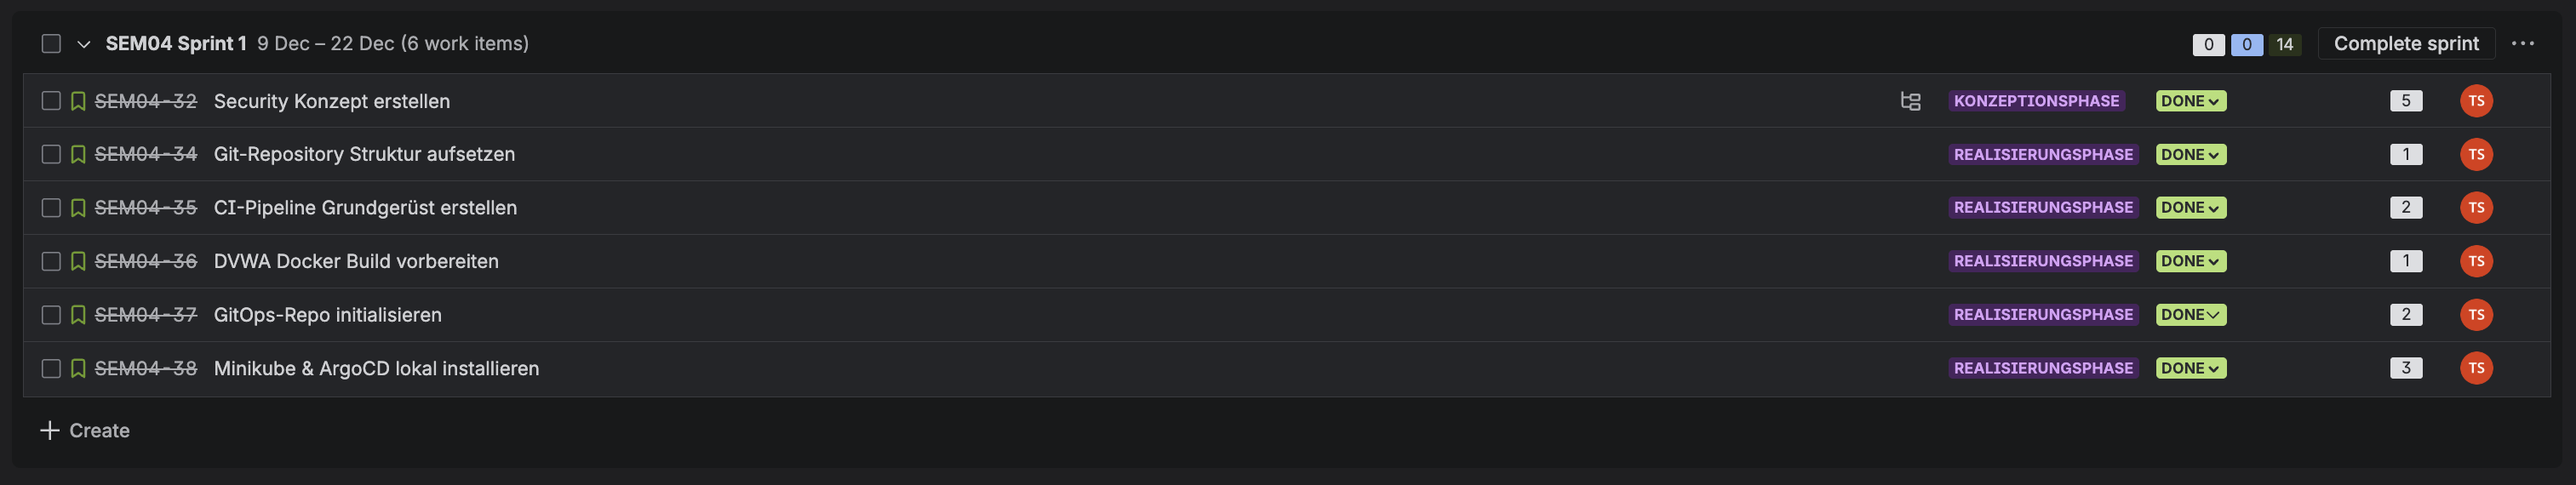
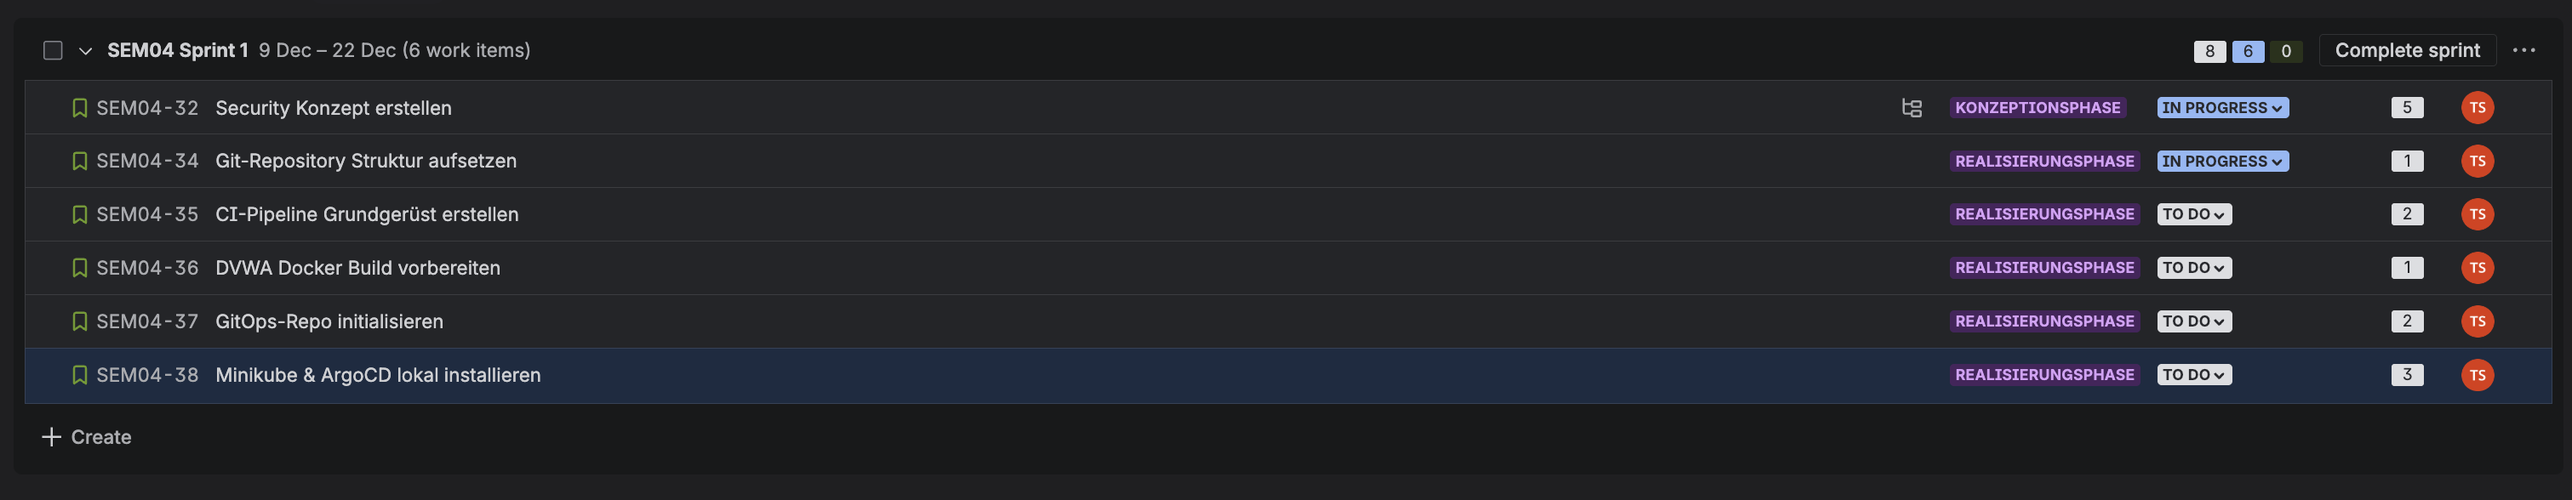
adding sprit overviews

diff --git a/README.md b/README.md
@@ -25,7 +25,7 @@
     - [Minimum Lovable Product (MLP)](#minimum-lovable-product-mlp)
     - [Projektinitialisierung 12.11 - 08.12.2025](#projektinitialisierung-1211---08122025)
     - [1. Sprint vom 09.12 - 22.12.2025](#1-sprint-vom-0912---22122025)
-    - [2. Sprint vom 23.01 - 05.01.2026](#2-sprint-vom-2301---05012026)
+    - [2. Sprint vom 23.12 - 05.01.2026](#2-sprint-vom-2312---05012026)
     - [3. Sprint vom 06.01 - 23.01.2026](#3-sprint-vom-0601---23012026)
   - [Anforderungsdefinition](#anforderungsdefinition)
     - [Funktionale Anforderung](#funktionale-anforderung)
@@ -219,19 +219,19 @@ In den unten beschriebenen Punkten werden die nötigen Schritte definiert, die d
 
 1. Meilenstein: Initialisierungsphase
    Ziel: Projektstart, Definition von Zielen, Rahmenbedingungen und Rollen
-   Erledigt: XX
+   Erledigt: 27.11.2025
 
 2. Meilenstein: Konzeptionsphase
    Ziel: Ausarbeitung der Systemarchitektur, Schnittstellen sowie Ressourcen- und Risikoplanung
-   Erledigt: XX
+   Erledigt: 08.12.2025
 
 3. Meilenstein: Realisierungsphase
    Ziel: Technische Umsetzung des GitOps-Workflows, Deployment auf Kubernetes sowie Sicherstellung von Security-Tests und Validierung
-   Erledigt: XX
+   Erledigt: 01.01.2026
 
 4. Meilenstein: Einführungsphase
    Ziel: Fazit, Reflexion, Lessons Learned
-   Erledigt: XX
+   Erledigt: 24.01.2025
 
 ### Story Point Schätzung
 https://clickup.com/de/blog/222797/punkte-der-fibonacci-geschichte
@@ -264,8 +264,6 @@ Beachte diesen Punkt mit dem GitOps Workflow Konzept. MVP zusammen mit Git Tags/
 | Ressourcen definieren               | [SEM04-22](https://shorturl.at/5Ye3s) | 1      |
 | Risikomanagement erarbeiten         | [SEM04-23](https://rb.gy/humncv)      | 3      |
 | GitOps Konzept erstellen            | [SEM04-24](https://h7.cl/1kg3v)       | 3      |
-| Security Konzept erstellen          | [SEM04-32](https://h7.cl/1fpry)       | 5      |
-| Test Konzept erarbeiten             | [SEM04-26](https://h7.cl/1kg3M)       | 3      |
 
 > [!NOTE]
 > **Sprint Goal**: Abschluss und Erreichung der beiden Meilensteine; Initialisierungs- und Konzeptionsphase.
@@ -274,15 +272,47 @@ Beachte diesen Punkt mit dem GitOps Workflow Konzept. MVP zusammen mit Git Tags/
 
 ![01sprint_board](image/01sprint_board.png)
 
-Als Table mit den Stories/Tasks und Akzepttanzkriterien
+| Story                             | Akzeptanzkriterium                       | Points |
+| :-------------------------------- | :--------------------------------------- | :----- |
+| Security Konzept erstellen        | [SEM04-32](https://shorturl.at/EOXJX)    | 5      |
+| Git-Repository Struktur ausfetzen | [SEM04-34](https://shorturl.at/7ThLE)    | 1      |
+| Ci-Pipeline Grundgerüst erstellen | [SEM04-35](https://shorturl.at/kyv76)    | 2      |
+| DVPWA Docker Image vorbereiten    | [SEM04-36](https://shorturl.at/voJ7B)    | 2      |
+| GitOps-Repo initialisieren        | [SEM04-37](https://shorturl.at/85Fhm)    | 2      |
+| Minikube & ArgoCD aufsetzen       | [SEM04-38](https://tinyurl.com/ymcarjx8) | 2      |
 
-### 2. Sprint vom 23.01 - 05.01.2026
+> [!NOTE]
+> **Sprint Goal**: Am Ende des Sprints steht die Grund-Infrastruktur der Projektarbeit und das Grundgerüst der Security Pipeline.
 
-Als Table mit den Stories/Tasks und Akzepttanzkriterien
+
+### 2. Sprint vom 23.12 - 05.01.2026
+
+![02sprint_board](image/02sprint_board.png)
+
+| Story                               | Akzeptanzkriterium                       | Points |
+| :---------------------------------- | :--------------------------------------- | :----- |
+| Lint-Checker implementieren         | [SEM04-45](https://tinyurl.com/3sj8kkrh) | 2      |
+| TLS-Zerti implementieren            | [SEM04-34](https://tinyurl.com/4a5js6ad) | 4      |
+| Snyk scan SAST & SCA implementieren | [SEM04-35](https://tinyurl.com/fhrusvu9) | 5      |
+| Trivy Scan mit SARIF umsetzen       | [SEM04-35](https://tinyurl.com/5ecnyus4) | 4      |
+| SemVersioning Logik umsetzen        | [SEM04-35](https://tinyurl.com/3zb3xunf) | 4      |
+
+> [!NOTE]
+> **Sprint Goal**: Am Ende des Sprints wird die Anwendung automatisiert als sicheres Container-Image gebaut und versioniert.
 
 ### 3. Sprint vom 06.01 - 23.01.2026
 
-Als Table mit den Stories/Tasks und Akzepttanzkriterien
+![03sprint_board](image/03sprint_board.png)
+
+| Story                                   | Akzeptanzkriterium                    | Points |
+| :-------------------------------------- | :------------------------------------ | :----- |
+| DAST implementation                     | [SEM04-32](https://shorturl.at/voJ7B) | 5      |
+| GitOps verification pipeline erstellen  | [SEM04-34](https://shorturl.at/voJ7B) | 5      |
+| Lösung für den Build in MAIN erarbeiten | [SEM04-35](https://shorturl.at/voJ7B) | 4      |
+| Testing                                 | [SEM04-35](https://shorturl.at/voJ7B) | 4      |
+
+> [!NOTE]
+> **Sprint Goal**: Am Ende des Sprints ist die Anwendung vollständig GitOps-basiert in Kubernetes deployt und zur Laufzeit testbar.
 
 ## Anforderungsdefinition
 
